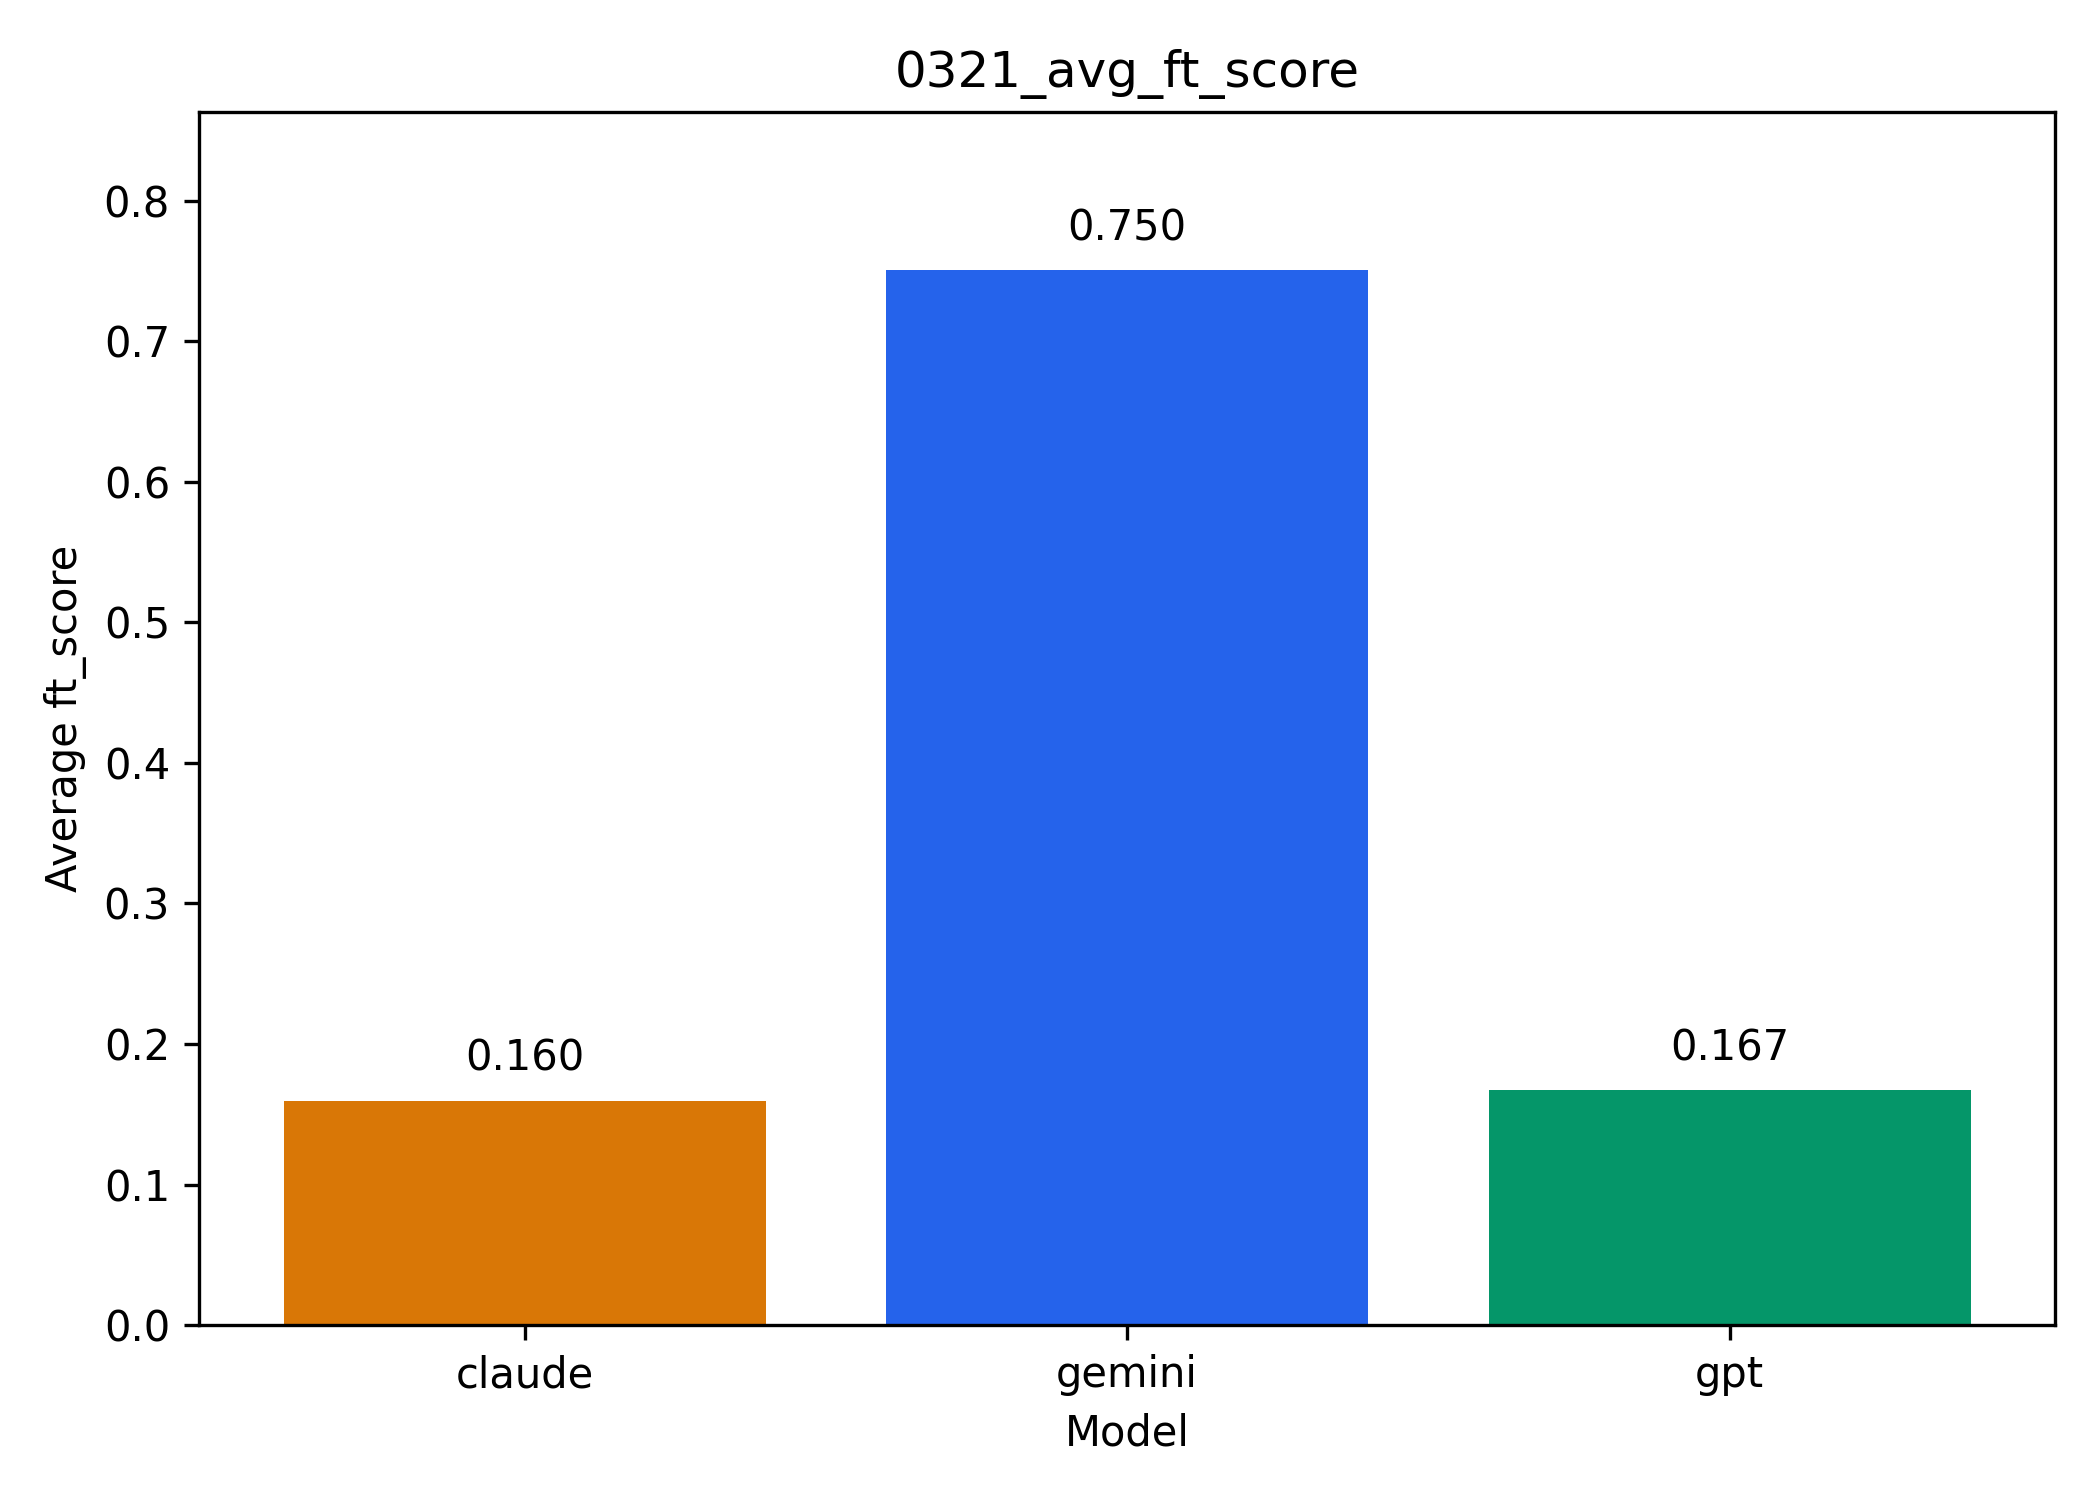
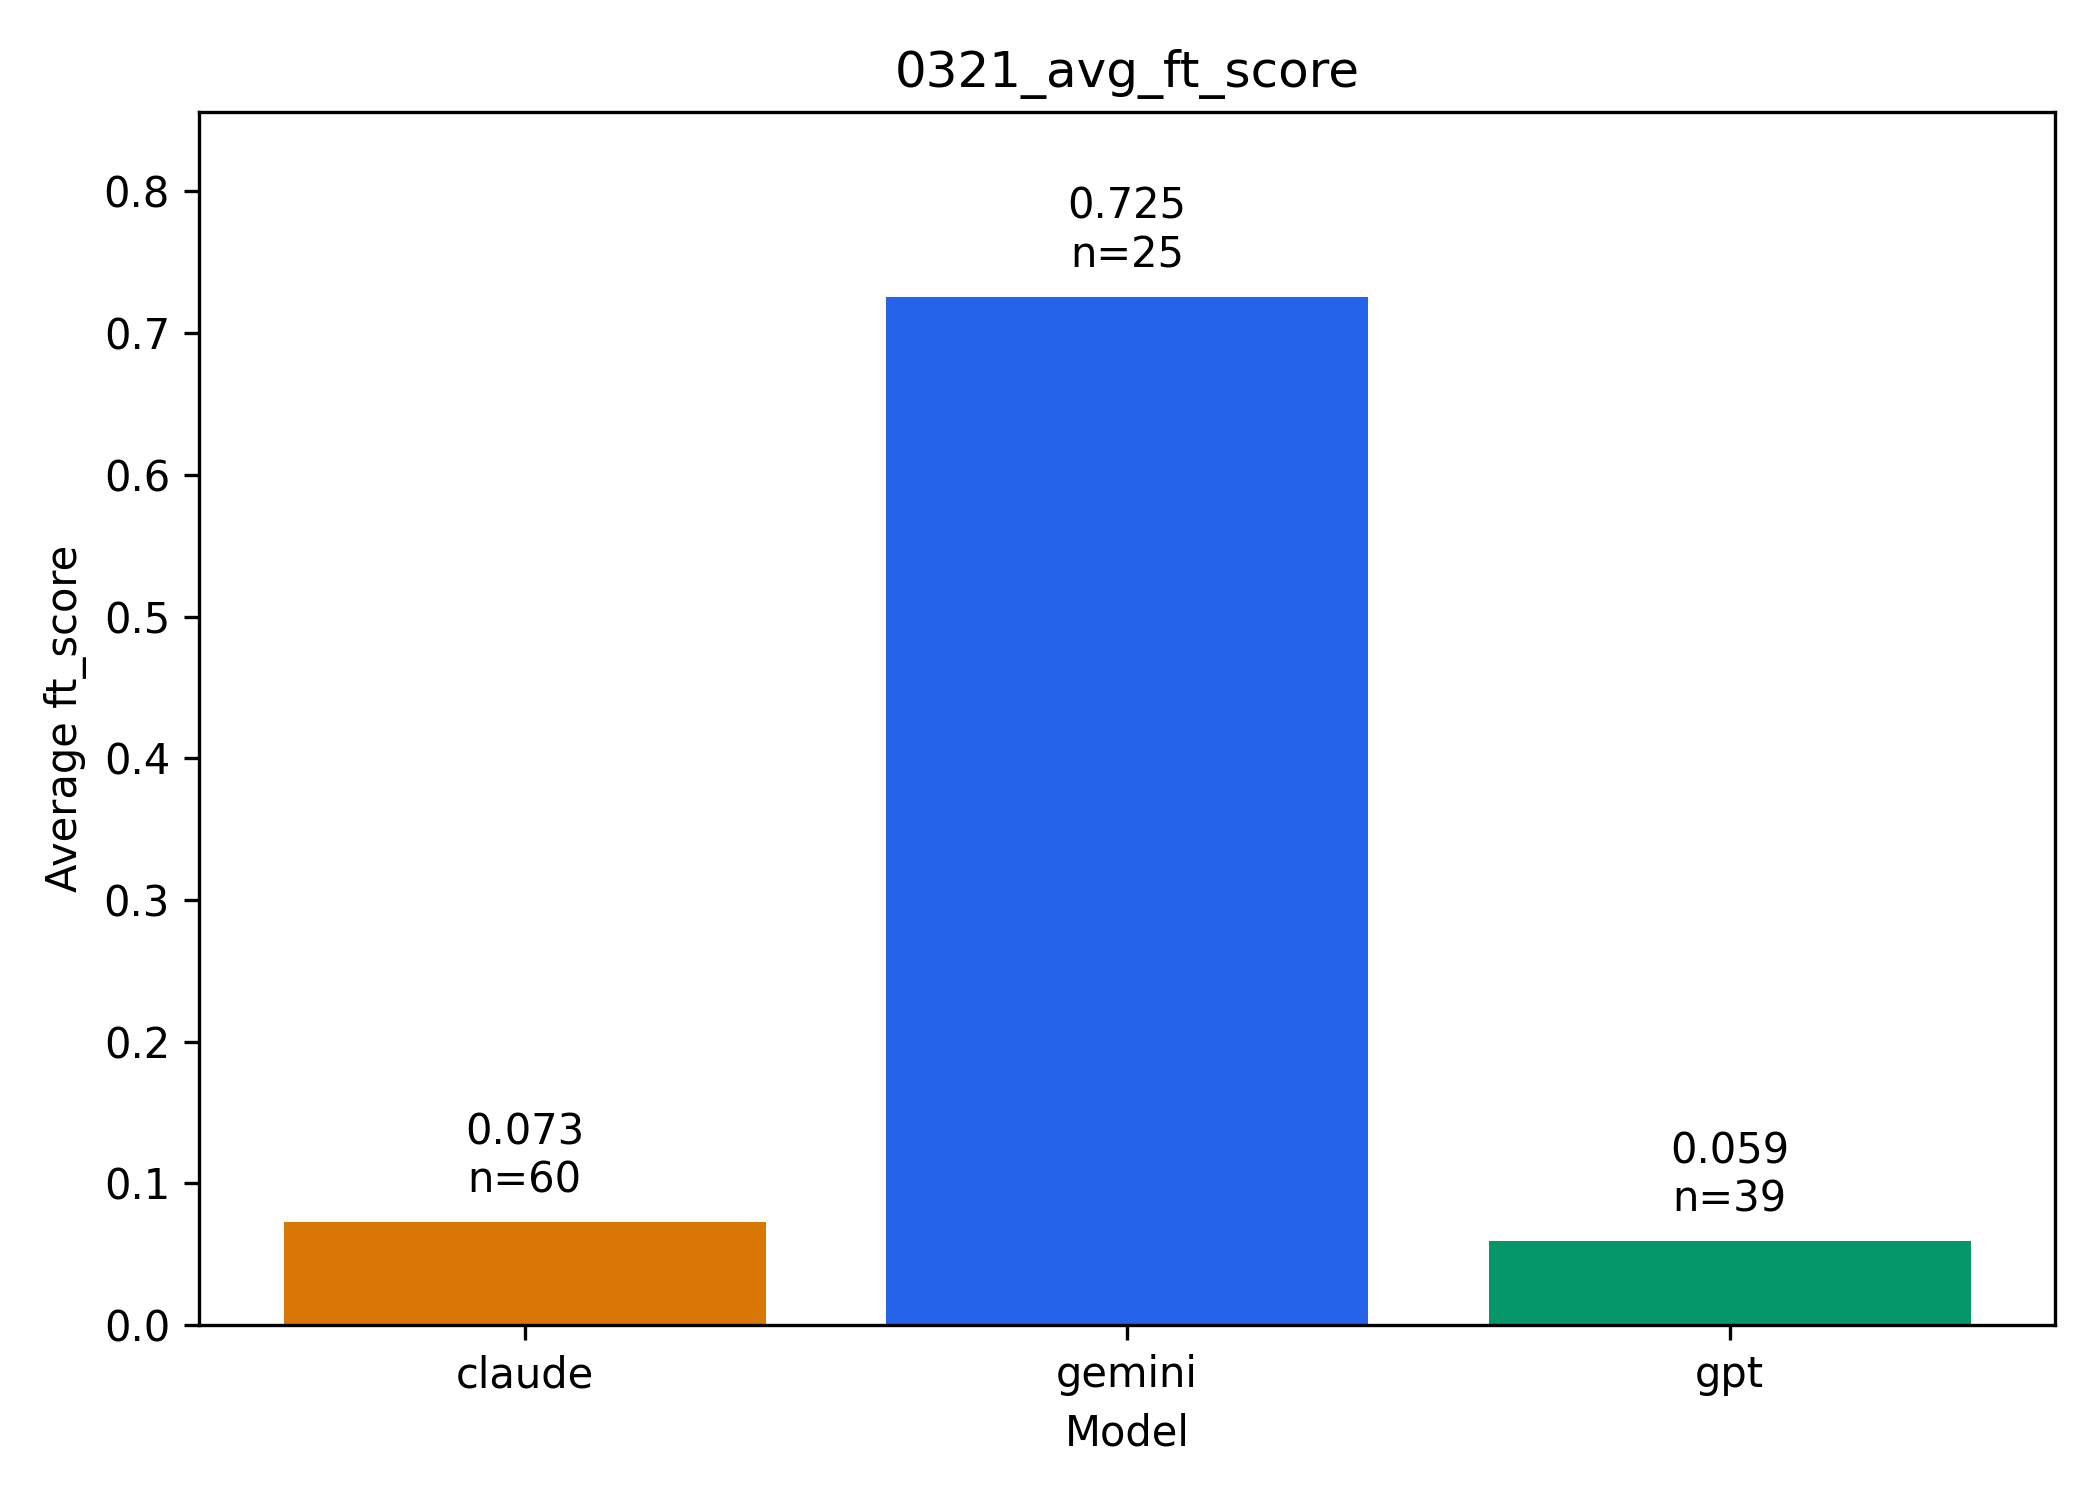
Recalculate the diagram with cleaned2 data

diff --git a/rq2/analysis/ft_score_avg.py b/rq2/analysis/ft_score_avg.py
@@ -5,79 +5,43 @@ from pathlib import Path
 
 
 ROOT = Path(__file__).resolve().parents[1]
-BENCHMARKS_PATH = ROOT.parent.parent / "data" / "benchmarks.json"
+BENCHMARKS_PATH = ROOT.parent / "data" / "benchmarks.json"
 
 RUNS = [
     {
         "date_code": "260314",
         "display_date": "0314",
         "model_files": {
-            "claude": {
-                "cleaned": ROOT / "claude-opus-4.6" / "cleaned" / "cleaned_260314.2351.json",
-                "raw": ROOT / "claude-opus-4.6" / "claude_260314.2351.json",
-            },
-            "gemini": {
-                "cleaned": ROOT / "gemini-3-pro-preview" / "cleaned" / "cleaned_260314.2353.json",
-                "raw": ROOT / "gemini-3-pro-preview" / "gemini_260314.2353.json",
-            },
-            "gpt": {
-                "cleaned": ROOT / "gpt5.2" / "cleaned" / "cleaned_260314.2352.json",
-                "raw": ROOT / "gpt5.2" / "gpt_260314.2352.json",
-            },
+            "claude": ROOT / "data" / "claude-opus-4.6" / "cleaned" / "cleaned2_260314.2351.json",
+            "gemini": ROOT / "data" / "gemini-3-pro-preview" / "cleaned" / "cleaned2_260314.2353.json",
+            "gpt": ROOT / "data" / "gpt5.2" / "cleaned" / "cleaned2_260314.2352.json",
         },
     },
     {
         "date_code": "260319",
         "display_date": "0319",
         "model_files": {
-            "claude": {
-                "cleaned": ROOT / "claude-opus-4.6" / "cleaned" / "cleaned_260319.0920.json",
-                "raw": ROOT / "claude-opus-4.6" / "claude_260319.0920.json",
-            },
-            "gemini": {
-                "cleaned": ROOT / "gemini-3-pro-preview" / "cleaned" / "cleaned_260319.1021.json",
-                "raw": ROOT / "gemini-3-pro-preview" / "gemini_260319.1021.json",
-            },
-            "gpt": {
-                "cleaned": ROOT / "gpt5.2" / "cleaned" / "cleaned_260319.1021.json",
-                "raw": ROOT / "gpt5.2" / "gpt_260319.1021.json",
-            },
+            "claude": ROOT / "data" / "claude-opus-4.6" / "cleaned" / "cleaned2_260319.0920.json",
+            "gemini": ROOT / "data" / "gemini-3-pro-preview" / "cleaned" / "cleaned2_260319.1021.json",
+            "gpt": ROOT / "data" / "gpt5.2" / "cleaned" / "cleaned2_260319.1021.json",
         },
     },
     {
         "date_code": "260320",
         "display_date": "0320",
         "model_files": {
-            "claude": {
-                "cleaned": ROOT / "claude-opus-4.6" / "cleaned" / "cleaned_260320.0954.json",
-                "raw": ROOT / "claude-opus-4.6" / "claude_260320.0954.json",
-            },
-            "gemini": {
-                "cleaned": ROOT / "gemini-3-pro-preview" / "cleaned" / "cleaned_260320.0954.json",
-                "raw": ROOT / "gemini-3-pro-preview" / "gemini_260320.0954.json",
-            },
-            "gpt": {
-                "cleaned": ROOT / "gpt5.2" / "cleaned" / "cleaned_260320.0954.json",
-                "raw": ROOT / "gpt5.2" / "gpt_260320.0954.json",
-            },
+            "claude": ROOT / "data" / "claude-opus-4.6" / "cleaned" / "cleaned2_260320.0954.json",
+            "gemini": ROOT / "data" / "gemini-3-pro-preview" / "cleaned" / "cleaned2_260320.0954.json",
+            "gpt": ROOT / "data" / "gpt5.2" / "cleaned" / "cleaned2_260320.0954.json",
         },
     },
     {
         "date_code": "260321",
         "display_date": "0321",
         "model_files": {
-            "claude": {
-                "cleaned": ROOT / "claude-opus-4.6" / "cleaned" / "cleaned_260321.1013.json",
-                "raw": ROOT / "claude-opus-4.6" / "260321.1013.json",
-            },
-            "gemini": {
-                "cleaned": ROOT / "gemini-3-pro-preview" / "cleaned" / "cleaned_260321.1013.json",
-                "raw": ROOT / "gemini-3-pro-preview" / "gemini_260321.1013.json",
-            },
-            "gpt": {
-                "cleaned": ROOT / "gpt5.2" / "cleaned" / "cleaned_260321.1013.json",
-                "raw": ROOT / "gpt5.2" / "260321.1013.json",
-            },
+            "claude": ROOT / "data" / "claude-opus-4.6" / "cleaned" / "cleaned2_260321.1013.json",
+            "gemini": ROOT / "data" / "gemini-3-pro-preview" / "cleaned" / "cleaned2_260321.1013.json",
+            "gpt": ROOT / "data" / "gpt5.2" / "cleaned" / "cleaned2_260321.1013.json",
         },
     },
 ]
@@ -95,8 +59,8 @@ def average(values: list[float]) -> float | None:
     return sum(values) / len(values)
 
 
-def _load_cleaned_entries(cleaned_path: Path) -> list[dict]:
-    with cleaned_path.open() as f:
+def load_cleaned2_entries(cleaned2_path: Path) -> list[dict]:
+    with cleaned2_path.open() as f:
         payload = json.load(f)
 
     entries: list[dict] = []
@@ -108,52 +72,25 @@ def _load_cleaned_entries(cleaned_path: Path) -> list[dict]:
     return entries
 
 
-def _load_raw_lookup(raw_path: Path) -> dict[str, float]:
-    with raw_path.open() as f:
-        payload = json.load(f)
-
-    lookup: dict[str, float] = {}
-    for result in payload.get("results", []):
-        if not isinstance(result, dict):
-            continue
-        code_name = result.get("code_name")
-        score = result.get("best_output", {}).get("ft_score")
-        if code_name and score is not None:
-            lookup[code_name] = score
-    return lookup
-
-
-def collect_effective_ft_scores(cleaned_path: Path, raw_path: Path) -> list[tuple[str, float]]:
-    cleaned_entries = _load_cleaned_entries(cleaned_path)
-    raw_lookup = _load_raw_lookup(raw_path)
+def collect_ft_scores(cleaned2_path: Path) -> list[tuple[str, float]]:
     scores: list[tuple[str, float]] = []
-
-    for result in cleaned_entries:
+    for result in load_cleaned2_entries(cleaned2_path):
         code_name = result.get("code_name")
-        if not code_name:
-            continue
-
-        if result.get("correct") is True:
-            score = raw_lookup.get(code_name)
-        else:
-            score = result.get("new_best_output", {}).get("ft_score")
-
-        if score is not None:
+        score = result.get("new_best_output", {}).get("ft_score")
+        if code_name and score is not None:
             scores.append((code_name, score))
-
     return scores
 
 
-def collect_effective_ft_scores_by_size(
-    cleaned_path: Path,
-    raw_path: Path,
+def collect_ft_scores_by_size(
+    cleaned2_path: Path,
     benchmark_qubits: dict[str, int],
 ) -> tuple[list[float], list[float], list[str]]:
     over_80: list[float] = []
     under_or_equal_80: list[float] = []
     missing_names: list[str] = []
 
-    for code_name, score in collect_effective_ft_scores(cleaned_path, raw_path):
+    for code_name, score in collect_ft_scores(cleaned2_path):
         physical_qubits = benchmark_qubits.get(code_name)
         if physical_qubits is None:
             missing_names.append(code_name)

diff --git a/rq2/data/analysis/build_cleaned2.py b/rq2/data/analysis/build_cleaned2.py
@@ -1,0 +1,177 @@
+from __future__ import annotations
+
+import json
+from copy import deepcopy
+from pathlib import Path
+
+ROOT = Path(__file__).resolve().parents[1]
+
+RUNS = [
+    {
+        "date_code": "260314",
+        "model_files": {
+            "claude": {
+                "cleaned": ROOT / "claude-opus-4.6" / "cleaned" / "cleaned_260314.2351.json",
+                "raw": ROOT / "claude-opus-4.6" / "claude_260314.2351.json",
+            },
+            "gemini": {
+                "cleaned": ROOT / "gemini-3-pro-preview" / "cleaned" / "cleaned_260314.2353.json",
+                "raw": ROOT / "gemini-3-pro-preview" / "gemini_260314.2353.json",
+            },
+            "gpt": {
+                "cleaned": ROOT / "gpt5.2" / "cleaned" / "cleaned_260314.2352.json",
+                "raw": ROOT / "gpt5.2" / "gpt_260314.2352.json",
+            },
+        },
+    },
+    {
+        "date_code": "260319",
+        "model_files": {
+            "claude": {
+                "cleaned": ROOT / "claude-opus-4.6" / "cleaned" / "cleaned_260319.0920.json",
+                "raw": ROOT / "claude-opus-4.6" / "claude_260319.0920.json",
+            },
+            "gemini": {
+                "cleaned": ROOT / "gemini-3-pro-preview" / "cleaned" / "cleaned_260319.1021.json",
+                "raw": ROOT / "gemini-3-pro-preview" / "gemini_260319.1021.json",
+            },
+            "gpt": {
+                "cleaned": ROOT / "gpt5.2" / "cleaned" / "cleaned_260319.1021.json",
+                "raw": ROOT / "gpt5.2" / "gpt_260319.1021.json",
+            },
+        },
+    },
+    {
+        "date_code": "260320",
+        "model_files": {
+            "claude": {
+                "cleaned": ROOT / "claude-opus-4.6" / "cleaned" / "cleaned_260320.0954.json",
+                "raw": ROOT / "claude-opus-4.6" / "claude_260320.0954.json",
+            },
+            "gemini": {
+                "cleaned": ROOT / "gemini-3-pro-preview" / "cleaned" / "cleaned_260320.0954.json",
+                "raw": ROOT / "gemini-3-pro-preview" / "gemini_260320.0954.json",
+            },
+            "gpt": {
+                "cleaned": ROOT / "gpt5.2" / "cleaned" / "cleaned_260320.0954.json",
+                "raw": ROOT / "gpt5.2" / "gpt_260320.0954.json",
+            },
+        },
+    },
+    {
+        "date_code": "260321",
+        "model_files": {
+            "claude": {
+                "cleaned": ROOT / "claude-opus-4.6" / "cleaned" / "cleaned_260321.1013.json",
+                "raw": ROOT / "claude-opus-4.6" / "claude_260321.1013.json",
+            },
+            "gemini": {
+                "cleaned": ROOT / "gemini-3-pro-preview" / "cleaned" / "cleaned_260321.1013.json",
+                "raw": ROOT / "gemini-3-pro-preview" / "gemini_260321.1013.json",
+            },
+            "gpt": {
+                "cleaned": ROOT / "gpt5.2" / "cleaned" / "cleaned_260321.1013.json",
+                "raw": ROOT / "gpt5.2" / "gpt_260321.1013.json",
+            },
+        },
+    },
+]
+
+
+def load_cleaned_entries(cleaned_path: Path) -> dict:
+    with cleaned_path.open() as f:
+        return json.load(f)
+
+
+def build_raw_best_lookup(raw_path: Path) -> dict[str, dict]:
+    with raw_path.open() as f:
+        payload = json.load(f)
+
+    best_lookup: dict[str, dict] = {}
+    for result in payload.get("results", []):
+        if not isinstance(result, dict):
+            continue
+
+        code_name = result.get("code_name")
+        if not code_name:
+            continue
+
+        candidates: list[dict] = []
+        best_output = result.get("best_output")
+        if isinstance(best_output, dict):
+            candidates.append(best_output)
+
+        for candidate in result.get("generated_circuits", []):
+            if isinstance(candidate, dict):
+                candidates.append(candidate)
+
+        valid_candidates = [
+            candidate
+            for candidate in candidates
+            if candidate.get("all_stabilized") is True and candidate.get("ft_score") is not None
+        ]
+        if not valid_candidates:
+            continue
+
+        best_lookup[code_name] = max(valid_candidates, key=lambda candidate: candidate["ft_score"])
+
+    return best_lookup
+
+
+def build_cleaned2_payload(cleaned_path: Path, raw_path: Path) -> dict:
+    cleaned_payload = load_cleaned_entries(cleaned_path)
+    raw_best_lookup = build_raw_best_lookup(raw_path)
+
+    cleaned2_payload = deepcopy(cleaned_payload)
+    rebuilt_results: list = []
+
+    for item in cleaned_payload.get("cleaned_results", []):
+        if not isinstance(item, list):
+            rebuilt_results.append(item)
+            continue
+
+        rebuilt_entries: list[dict] = []
+        for entry in item:
+            if not isinstance(entry, dict):
+                rebuilt_entries.append(entry)
+                continue
+
+            if entry.get("correct") is False:
+                rebuilt_entries.append(entry)
+                continue
+
+            code_name = entry.get("code_name")
+            best_candidate = raw_best_lookup.get(code_name)
+            if best_candidate is None:
+                rebuilt_entries.append(entry)
+                continue
+
+            rebuilt_entry = deepcopy(entry)
+            rebuilt_entry["new_best_output"] = {
+                key: value
+                for key, value in best_candidate.items()
+                if key in {"circuit", "ft_score", "all_stabilized", "preserved_stabilizers", "ft_check", "stabilizer_details", "ALL TRUE"}
+            }
+            rebuilt_entries.append(rebuilt_entry)
+
+        rebuilt_results.append(rebuilt_entries)
+
+    cleaned2_payload["cleaned_results"] = rebuilt_results
+    return cleaned2_payload
+
+
+def main() -> None:
+    for run in RUNS:
+        for model_name, paths in run["model_files"].items():
+            cleaned_path = paths["cleaned"]
+            raw_path = paths["raw"]
+            cleaned2_payload = build_cleaned2_payload(cleaned_path, raw_path)
+            cleaned2_path = cleaned_path.with_name(cleaned_path.name.replace("cleaned_", "cleaned2_", 1))
+            with cleaned2_path.open("w") as f:
+                json.dump(cleaned2_payload, f, indent=2)
+                f.write("\n")
+            print(f"Created {cleaned2_path} from {model_name} {run['date_code']}")
+
+
+if __name__ == "__main__":
+    main()
